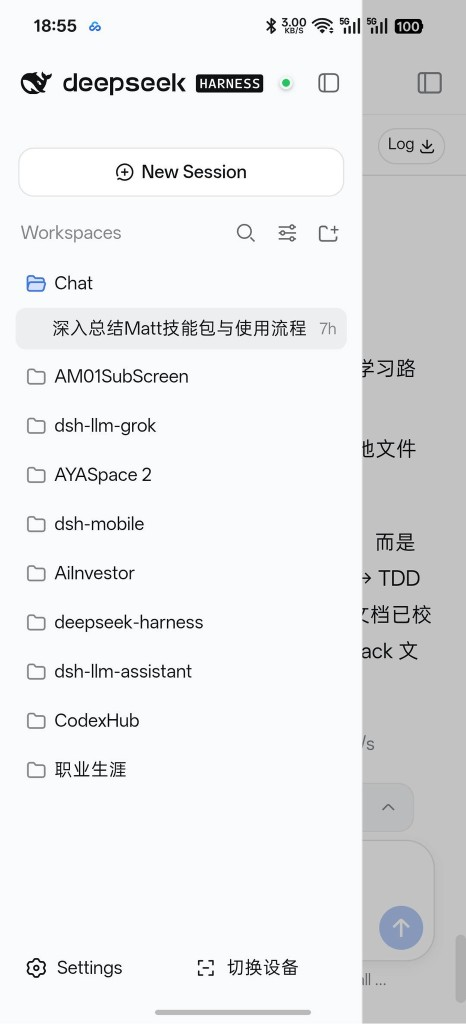
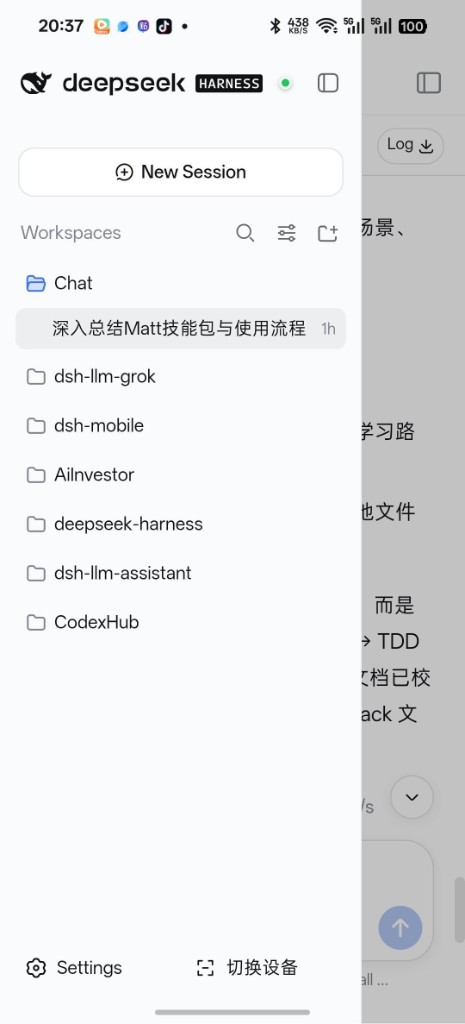
docs: lead with install commands and pair comparison shots
Replace the sidebar capture, put Remote / tunnel / optional Sidebar / APK first, and show conversation, settings, and Codex screens side by side.

diff --git a/README.md b/README.md
@@ -4,13 +4,53 @@ English | [中文](README.zh.md)
 
 Your own [DeepSeek Harness](https://github.com/deepseek-ai/deepseek-harness), on your phone. Scan a QR, keep an encrypted tunnel, keep the official UI — composed for a hand.
 
-![First launch: scan to pair](docs/screenshots/01-first-run.png)
-
 This is not a second DSH, not a browser that exposes `:3080`, and not a hosted product on someone else's domain. The Host stays on the machine you already run. The Android app connects to the one Active Host you select.
 
-DSH Mobile is **several published packages**, not one library. You install a Host plugin (pairing, which depends on the public tunnel library), optionally Codex Sidebar, and the Android APK.
+## Install
+
+Need [DeepSeek Harness](https://github.com/deepseek-ai/deepseek-harness) **0.1.0-rc.6** or later, already running on the machine the phone should reach.
+
+This is **several published packages**, not `npm i dsh-mobile`. On the Host, install **Remote** (the pairing plugin). It pulls the public tunnel library. Codex Sidebar is optional and recommended. Then install the APK.
+
+```sh
+dsh plugin --profile web add github:NOirBRight/dsh-mobile-pairing#v0.1.6
+dsh plugin --profile web add github:NOirBRight/dsh-codex-sidebar#v0.3.8
+dsh web
+```
+
+The second line is Codex Sidebar (Files / Review / Browser / Terminal). Skip it if you only want chat.
+
+Pairing **v0.1.6** depends on [`@dsh-mobile/e2e-tunnel` v0.1.3](https://github.com/NOirBRight/dsh-e2e-tunnel/releases/tag/v0.1.3). Do not add the tunnel library to the DSH plugin list.
+
+Then on the Host: **Settings → Plugins → DSH Mobile** (nav label **Remote**).
+
+1. **Generate automatically** (temporary Quick Tunnel) or **Enter an address** (a Relay you were given, or [one you deployed](relay/deploy/README.md)).
+2. Refresh the QR. Codes last about five minutes and are single-use.
+
+Android APK (signed **v1.1.0**):
+
+- Release: https://github.com/NOirBRight/dsh-mobile/releases/tag/v1.1.0
+- APK: https://github.com/NOirBRight/dsh-mobile/releases/download/v1.1.0/dsh-mobile-1.1.0.apk
+
+Install the APK, open the app, scan the Host QR.
+
+| Piece | Latest | Role |
+|---|---|---|
+| [dsh-mobile-pairing](https://github.com/NOirBRight/dsh-mobile-pairing) (`@dsh-mobile/pairing`) | [v0.1.6](https://github.com/NOirBRight/dsh-mobile-pairing/releases/tag/v0.1.6) | **Required.** Host plugin: QR, devices, loopback Gateway, Tunnel / Direct. This is **Remote**. |
+| [dsh-e2e-tunnel](https://github.com/NOirBRight/dsh-e2e-tunnel) (`@dsh-mobile/e2e-tunnel`) | [v0.1.3](https://github.com/NOirBRight/dsh-e2e-tunnel/releases/tag/v0.1.3) | Companion library. Pairing already depends on it. |
+| [dsh-codex-sidebar](https://github.com/NOirBRight/dsh-codex-sidebar) | [v0.3.8](https://github.com/NOirBRight/dsh-codex-sidebar/releases/tag/v0.3.8) | **Optional.** Files / Review / Browser / Terminal in the details seat. |
+| [dsh-mobile](https://github.com/NOirBRight/dsh-mobile) APK | [v1.1.0](https://github.com/NOirBRight/dsh-mobile/releases/tag/v1.1.0) | Phone app. Download the APK above. |
+| Relay | [`relay/deploy`](relay/deploy/README.md) | Optional self-hosted sealed-frame Relay, only if you skip Quick Tunnel. |
+
+Embedding the tunnel in another Host (not a phone install):
+
+```sh
+npm i github:NOirBRight/dsh-e2e-tunnel#v0.1.3
+```
 
 ## What it does
+
+![First launch: scan to pair](docs/screenshots/01-first-run.png)
 
 - **Scan to pair** — First launch is a camera screen. You can also open `dsh-mobile://pair#offer=…`. Scanning the same Host Identity updates that profile instead of duplicating it.
 - **Encrypted tunnel first** — Automatic opens a sealed Tunnel immediately. Same-network WebRTC Direct may win only in a short race. Quick Tunnel and Relay see ciphertext frames; the Host Gateway never publishes the DSH web port.
@@ -21,17 +61,17 @@ DSH Mobile is **several published packages**, not one library. You install a Hos
 
 ![Navigation drawer](docs/screenshots/02-sidebar.png)
 
-Narrow conversation chrome: session title, Chat / mode / log, composer, and compact stats.
+Narrow conversation chrome: session title, Chat / mode / log, composer, and compact stats. The composer opens the model list on the same screen.
 
-![Narrow conversation](docs/screenshots/03-session.png)
-
-![Model picker on the composer](docs/screenshots/04-model-picker.png)
+| Conversation | Model picker |
+| :---: | :---: |
+| ![Narrow conversation](docs/screenshots/03-session.png) | ![Model picker on the composer](docs/screenshots/04-model-picker.png) |
 
 Settings use the same official sections, laid out for a hand. The official desktop settings sheet still squeezes on a phone-width browser.
 
-![Mobile settings](docs/screenshots/05-settings.png)
-
-![Official settings at phone width](docs/screenshots/06-settings-official.png)
+| Phone settings | Official settings at phone width |
+| :---: | :---: |
+| ![Mobile settings](docs/screenshots/05-settings.png) | ![Official settings at phone width](docs/screenshots/06-settings-official.png) |
 
 The composer plus button on a phone only offers **Command** and **Insert image**. Images still go through the Host's official draft-image path.
 
@@ -48,17 +88,13 @@ flowchart LR
 
 ## Companion: Codex Sidebar
 
-Install **[Codex Sidebar](https://github.com/NOirBRight/dsh-codex-sidebar)** on the same Host. On the desktop it occupies the official details column. On the phone that seat becomes a right-edge drawer: Files, Review, Browser, and Terminal are the same plugin, not a second mobile app.
-
-```sh
-dsh plugin --profile web add github:NOirBRight/dsh-codex-sidebar#v0.3.8
-```
+Install **[Codex Sidebar](https://github.com/NOirBRight/dsh-codex-sidebar)** on the same Host (command in [Install](#install)). On the desktop it occupies the official details column. On the phone that seat becomes a right-edge drawer: Files, Review, Browser, and Terminal are the same plugin, not a second mobile app.
 
 ![Codex palette: Review, Terminal, Browser, Files](docs/screenshots/08-codex-palette.png)
 
-![Files preview](docs/screenshots/09-codex-files.png)
-
-![Terminal](docs/screenshots/10-codex-terminal.png)
+| Files | Terminal |
+| :---: | :---: |
+| ![Files preview](docs/screenshots/09-codex-files.png) | ![Terminal](docs/screenshots/10-codex-terminal.png) |
 
 ```mermaid
 flowchart TB
@@ -71,60 +107,14 @@ flowchart TB
   codex -.-> chat
 ```
 
-## Install
+## Operator notes
 
-Need [DeepSeek Harness](https://github.com/deepseek-ai/deepseek-harness) **0.1.0-rc.6** or later, already running on the machine you want the phone to reach.
+- Every route still does a NaCl hello/ack anchored on the QR Host public key. Endpoint operators are untrusted pipes.
+- Automatic is tunnel-first. Direct Only and Tunnel Only remain available. There is no TURN.
+- Removing a profile in the app is local. Revoke the device on the Host to invalidate the token.
+- Compatibility mode is the default: pairing, devices, Tunnel/Relay, and official UI keep working without patching Runtime. Optional session-cache enhancement enables only when the official Runtime revision matches a pinned allowlist; unknown versions fall back automatically.
 
-This is not `npm i dsh-mobile`. Pairing, the tunnel library, the APK, and the optional sidebar are **separate public releases**. Install each piece as below.
-
-| Piece | Latest | What it is | You install it? |
-|---|---|---|---|
-| [dsh-mobile](https://github.com/NOirBRight/dsh-mobile) | [v1.1.0](https://github.com/NOirBRight/dsh-mobile/releases/tag/v1.1.0) | Android APK (this repo) | Yes — download the APK |
-| [dsh-mobile-pairing](https://github.com/NOirBRight/dsh-mobile-pairing) (`@dsh-mobile/pairing`) | [v0.1.6](https://github.com/NOirBRight/dsh-mobile-pairing/releases/tag/v0.1.6) | Host plugin: QR, devices, loopback Gateway, Tunnel / Direct | Yes — `dsh plugin add` |
-| [dsh-e2e-tunnel](https://github.com/NOirBRight/dsh-e2e-tunnel) (`@dsh-mobile/e2e-tunnel`) | [v0.1.3](https://github.com/NOirBRight/dsh-e2e-tunnel/releases/tag/v0.1.3) | NaCl tunnel library (Direct + sealed Tunnel) | No — pairing already depends on `#v0.1.3` |
-| [dsh-codex-sidebar](https://github.com/NOirBRight/dsh-codex-sidebar) | [v0.3.8](https://github.com/NOirBRight/dsh-codex-sidebar/releases/tag/v0.3.8) | Files / Review / Browser / Terminal in the details seat | Recommended — `dsh plugin add` |
-| Relay in this repo | [`relay/deploy`](relay/deploy/README.md) | Optional sealed-frame Relay you host yourself | Only if you skip Quick Tunnel |
-
-If you are embedding the tunnel in another Host, pin the public library explicitly:
-
-```sh
-npm i github:NOirBRight/dsh-e2e-tunnel#v0.1.3
-```
-
-Phone users do not run that command.
-
-### 1. Host plugins
-
-On the computer that already runs DSH:
-
-```sh
-dsh plugin --profile web add github:NOirBRight/dsh-mobile-pairing#v0.1.6
-dsh plugin --profile web add github:NOirBRight/dsh-codex-sidebar#v0.3.8
-dsh web
-```
-
-Pairing **v0.1.6** pulls **e2e-tunnel v0.1.3**. You do not add the tunnel package to the DSH plugin list.
-
-### 2. Pair on the Host
-
-Open **Settings → Plugins → DSH Mobile** (the settings nav also labels it **Remote**).
-
-1. Choose **Generate automatically** (temporary Quick Tunnel) or **Enter an address** (a Relay you were given, or [one you deployed](relay/deploy/README.md)).
-2. Refresh the QR. Codes last about five minutes and are single-use.
-3. Scan with the Android app.
-
-### 3. Android APK
-
-Download the signed build from the GitHub release — do not start from a local Gradle debug APK unless you are developing:
-
-- Release: [v1.1.0](https://github.com/NOirBRight/dsh-mobile/releases/tag/v1.1.0)
-- File: [dsh-mobile-1.1.0.apk](https://github.com/NOirBRight/dsh-mobile/releases/download/v1.1.0/dsh-mobile-1.1.0.apk)
-
-Install it, open the app, scan the Host QR.
-
-### Build from source (operators)
-
-Java 21 JDK and an Android SDK. From this monorepo:
+Build from source (Java 21 JDK and an Android SDK):
 
 ```sh
 npm install
@@ -134,12 +124,5 @@ npm run android:debug --workspace @dsh-mobile/mobile-web
 ```
 
 Debug APK: `apps/mobile-web/android/app/build/outputs/apk/debug/app-debug.apk`. Signed release: `npm run android:release --workspace @dsh-mobile/mobile-web`.
-
-## Operator notes
-
-- Every route still does a NaCl hello/ack anchored on the QR Host public key. Endpoint operators are untrusted pipes.
-- Automatic is tunnel-first. Direct Only and Tunnel Only remain available. There is no TURN.
-- Removing a profile in the app is local. Revoke the device on the Host to invalidate the token.
-- Compatibility mode is the default: pairing, devices, Tunnel/Relay, and official UI keep working without patching Runtime. Optional session-cache enhancement enables only when the official Runtime revision matches a pinned allowlist; unknown versions fall back automatically.
 
 Pairing configuration: [plugins/pairing/README.md](plugins/pairing/README.md) and the published [dsh-mobile-pairing](https://github.com/NOirBRight/dsh-mobile-pairing) repo. Self-hosted Relay: [relay/deploy/README.md](relay/deploy/README.md). Layout contract: [docs/adr/0004-responsive-layout-and-design-ownership.md](docs/adr/0004-responsive-layout-and-design-ownership.md). Maintainer architecture: [docs/architecture.md](docs/architecture.md).

diff --git a/README.zh.md b/README.zh.md
@@ -4,13 +4,53 @@
 
 把你自己的 [DeepSeek Harness](https://github.com/deepseek-ai/deepseek-harness) 装进口袋。扫码配对，端到端加密隧道，官方功能，手机布局。
 
-![首次启动：扫码配对](docs/screenshots/01-first-run.png)
-
 这不是第二套 DSH，不是把 `:3080` 暴露到公网的浏览器壳，也不是架在别人域名上的托管产品。Host 仍是你已经在跑的那台机器。Android 应用只连接你当前选中的那一台 Active Host。
 
-DSH Mobile **不是一个库**，而是多份已发布的包：Host 上的配对插件（依赖公开的隧道库）、可选的 Codex Sidebar，以及 Android APK。每一份都要按下面的方式装。
+## 安装
+
+需要本机已经在跑 [DeepSeek Harness](https://github.com/deepseek-ai/deepseek-harness) **0.1.0-rc.6** 或更高，手机要连的就是这台。
+
+这是 **多份已发布的包**，不是 `npm i dsh-mobile`。Host 上先装 **远程**（配对插件），它会带上公开的隧道库。Codex Sidebar 可选，建议装。然后再装 APK。
+
+```sh
+dsh plugin --profile web add github:NOirBRight/dsh-mobile-pairing#v0.1.6
+dsh plugin --profile web add github:NOirBRight/dsh-codex-sidebar#v0.3.8
+dsh web
+```
+
+第二行是 Codex Sidebar（Files / Review / Browser / Terminal）。只要聊天可以不装。
+
+配对插件 **v0.1.6** 依赖 [`@dsh-mobile/e2e-tunnel` v0.1.3](https://github.com/NOirBRight/dsh-e2e-tunnel/releases/tag/v0.1.3)。不要把隧道库再加进 DSH 插件列表。
+
+然后在 Host 上打开 **设置 → 插件 → 插件配置 → DSH Mobile**（导航里叫 **远程**）。
+
+1. **自动生成**（临时 Quick Tunnel）或 **填写地址**（你拿到的，或[自己部署](relay/deploy/README.md) 的 Relay）。
+2. 刷新二维码。约 5 分钟有效，且一次性。
+
+Android APK（已签名 **v1.1.0**）：
+
+- 发布页：https://github.com/NOirBRight/dsh-mobile/releases/tag/v1.1.0
+- APK：https://github.com/NOirBRight/dsh-mobile/releases/download/v1.1.0/dsh-mobile-1.1.0.apk
+
+装上应用，打开后扫描 Host 二维码。
+
+| 部件 | 当前版本 | 角色 |
+|---|---|---|
+| [dsh-mobile-pairing](https://github.com/NOirBRight/dsh-mobile-pairing)（`@dsh-mobile/pairing`） | [v0.1.6](https://github.com/NOirBRight/dsh-mobile-pairing/releases/tag/v0.1.6) | **必装。** Host 插件：二维码、设备、回环 Gateway、Tunnel / Direct。这就是 **远程**。 |
+| [dsh-e2e-tunnel](https://github.com/NOirBRight/dsh-e2e-tunnel)（`@dsh-mobile/e2e-tunnel`） | [v0.1.3](https://github.com/NOirBRight/dsh-e2e-tunnel/releases/tag/v0.1.3) | 配套库。pairing 已经依赖它。 |
+| [dsh-codex-sidebar](https://github.com/NOirBRight/dsh-codex-sidebar) | [v0.3.8](https://github.com/NOirBRight/dsh-codex-sidebar/releases/tag/v0.3.8) | **可选。** details 席位上的 Files / Review / Browser / Terminal。 |
+| [dsh-mobile](https://github.com/NOirBRight/dsh-mobile) APK | [v1.1.0](https://github.com/NOirBRight/dsh-mobile/releases/tag/v1.1.0) | 手机应用。用上面的 APK 链接。 |
+| Relay | [`relay/deploy`](relay/deploy/README.md) | 可选自托管密文转发。只用 Quick Tunnel 就跳过。 |
+
+把隧道嵌进别的 Host 时才单独钉库（装手机不用跑）：
+
+```sh
+npm i github:NOirBRight/dsh-e2e-tunnel#v0.1.3
+```
 
 ## 能做什么
+
+![首次启动：扫码配对](docs/screenshots/01-first-run.png)
 
 - **扫码配对** — 首次启动只有相机页。也可以打开 `dsh-mobile://pair#offer=…`。同一 Host Identity 会更新已有档案，不会复制设备。
 - **加密隧道优先** — Automatic 立刻走密封 Tunnel。同网 WebRTC Direct 只在短窗口里可以抢赢。Quick Tunnel 和 Relay 只看见密文帧；Host Gateway 不会公布 DSH 网页端口。
@@ -21,17 +61,17 @@ DSH Mobile **不是一个库**，而是多份已发布的包：Host 上的配对
 
 ![导航抽屉](docs/screenshots/02-sidebar.png)
 
-窄屏会话：顶栏标题、Chat / 模式 / 日志、composer、压缩统计行。
+窄屏会话：顶栏标题、Chat / 模式 / 日志、composer、压缩统计行。模型列表从同一块 composer 打开。
 
-![窄屏会话](docs/screenshots/03-session.png)
-
-![composer 上的模型选择器](docs/screenshots/04-model-picker.png)
+| 会话 | 模型选择器 |
+| :---: | :---: |
+| ![窄屏会话](docs/screenshots/03-session.png) | ![composer 上的模型选择器](docs/screenshots/04-model-picker.png) |
 
 设置用官方分区，按手机构图。官方桌面设置页在手机宽度的浏览器里仍会被挤扁。
 
-![窄屏设置](docs/screenshots/05-settings.png)
-
-![官方设置在手机宽度下](docs/screenshots/06-settings-official.png)
+| 窄屏设置 | 官方设置在手机宽度下 |
+| :---: | :---: |
+| ![窄屏设置](docs/screenshots/05-settings.png) | ![官方设置在手机宽度下](docs/screenshots/06-settings-official.png) |
 
 手机上加号只提供 **命令** 和 **插入图片**。图片仍走 Host 官方的 draft-image 通道。
 
@@ -48,17 +88,13 @@ flowchart LR
 
 ## 伴生：Codex Sidebar
 
-请在同一台 Host 上安装 **[Codex Sidebar](https://github.com/NOirBRight/dsh-codex-sidebar)**。桌面上它占用官方 details 列；手机上这个席位变成右侧抽屉。Files、Review、Browser、Terminal 仍是同一套插件，不是手机另做一版。
-
-```sh
-dsh plugin --profile web add github:NOirBRight/dsh-codex-sidebar#v0.3.8
-```
+请在同一台 Host 上安装 **[Codex Sidebar](https://github.com/NOirBRight/dsh-codex-sidebar)**（命令见[安装](#安装)）。桌面上它占用官方 details 列；手机上这个席位变成右侧抽屉。Files、Review、Browser、Terminal 仍是同一套插件，不是手机另做一版。
 
 ![Codex 工具面板：Review、Terminal、Browser、Files](docs/screenshots/08-codex-palette.png)
 
-![Files 预览](docs/screenshots/09-codex-files.png)
-
-![Terminal](docs/screenshots/10-codex-terminal.png)
+| Files | Terminal |
+| :---: | :---: |
+| ![Files 预览](docs/screenshots/09-codex-files.png) | ![Terminal](docs/screenshots/10-codex-terminal.png) |
 
 ```mermaid
 flowchart TB
@@ -71,60 +107,14 @@ flowchart TB
   codex -.-> chat
 ```
 
-## 安装
+## 操作者细节
 
-需要本机已经在跑 [DeepSeek Harness](https://github.com/deepseek-ai/deepseek-harness) **0.1.0-rc.6** 或更高。
+- 任何路径仍会做以 QR Host 公钥为锚的 NaCl hello/ack。端点运营方只是不可信管道。
+- Automatic 隧道优先。Direct Only 与 Tunnel Only 仍可选。无 TURN。
+- 应用里删除档案是本地操作。要作废凭证，请在 Host 上撤销设备。
+- 默认兼容模式：配对、设备、Tunnel/Relay 和官方 UI 不修改 Runtime 也能工作。可选会话缓存增强只在官方 Runtime revision 命中白名单时启用；未知版本自动回退。
 
-不要当成 `npm i dsh-mobile`。配对插件、隧道库、APK、可选 Sidebar 是 **各自独立发布** 的，按下表分别安装。
-
-| 部件 | 当前版本 | 是什么 | 要不要你亲手装 |
-|---|---|---|---|
-| [dsh-mobile](https://github.com/NOirBRight/dsh-mobile) | [v1.1.0](https://github.com/NOirBRight/dsh-mobile/releases/tag/v1.1.0) | Android APK（本仓库） | 要 — 下 APK |
-| [dsh-mobile-pairing](https://github.com/NOirBRight/dsh-mobile-pairing)（`@dsh-mobile/pairing`） | [v0.1.6](https://github.com/NOirBRight/dsh-mobile-pairing/releases/tag/v0.1.6) | Host 插件：二维码、设备、回环 Gateway、Tunnel / Direct | 要 — `dsh plugin add` |
-| [dsh-e2e-tunnel](https://github.com/NOirBRight/dsh-e2e-tunnel)（`@dsh-mobile/e2e-tunnel`） | [v0.1.3](https://github.com/NOirBRight/dsh-e2e-tunnel/releases/tag/v0.1.3) | NaCl 隧道库（Direct + 密封 Tunnel） | 不要 — pairing 已经依赖 `#v0.1.3` |
-| [dsh-codex-sidebar](https://github.com/NOirBRight/dsh-codex-sidebar) | [v0.3.8](https://github.com/NOirBRight/dsh-codex-sidebar/releases/tag/v0.3.8) | details 席位上的 Files / Review / Browser / Terminal | 建议装 — `dsh plugin add` |
-| 本仓库 Relay | [`relay/deploy`](relay/deploy/README.md) | 可选、自己托管的密文转发 Relay | 只有不用 Quick Tunnel 时才需要 |
-
-如果你要把隧道嵌进别的 Host，再单独钉公开库：
-
-```sh
-npm i github:NOirBRight/dsh-e2e-tunnel#v0.1.3
-```
-
-装手机的人不用跑这条。
-
-### 1. Host 插件
-
-在已经跑 DSH 的那台电脑上：
-
-```sh
-dsh plugin --profile web add github:NOirBRight/dsh-mobile-pairing#v0.1.6
-dsh plugin --profile web add github:NOirBRight/dsh-codex-sidebar#v0.3.8
-dsh web
-```
-
-配对插件 **v0.1.6** 会带上 **e2e-tunnel v0.1.3**。不要把隧道库再加进 DSH 的插件列表。
-
-### 2. 在 Host 上配对
-
-打开 **设置 → 插件 → 插件配置 → DSH Mobile**（导航里也叫 **远程**）。
-
-1. 选 **自动生成**（临时 Quick Tunnel）或 **填写地址**（你拿到的，或[自己部署](relay/deploy/README.md) 的 Relay）。
-2. 刷新二维码。约 5 分钟有效，且一次性。
-3. 用 Android 应用扫描。
-
-### 3. Android APK
-
-从 GitHub Release 下载已签名安装包。开发以外不要从本地 Gradle debug APK 起步：
-
-- 发布页：[v1.1.0](https://github.com/NOirBRight/dsh-mobile/releases/tag/v1.1.0)
-- 文件：[dsh-mobile-1.1.0.apk](https://github.com/NOirBRight/dsh-mobile/releases/download/v1.1.0/dsh-mobile-1.1.0.apk)
-
-装上应用，打开后扫描 Host 二维码。
-
-### 从源码构建（操作者）
-
-需要 Java 21 JDK 和 Android SDK。在本 monorepo 里：
+从源码构建（Java 21 JDK 和 Android SDK）：
 
 ```sh
 npm install
@@ -134,12 +124,5 @@ npm run android:debug --workspace @dsh-mobile/mobile-web
 ```
 
 调试 APK：`apps/mobile-web/android/app/build/outputs/apk/debug/app-debug.apk`。签名发布包：`npm run android:release --workspace @dsh-mobile/mobile-web`。
-
-## 操作者细节
-
-- 任何路径仍会做以 QR Host 公钥为锚的 NaCl hello/ack。端点运营方只是不可信管道。
-- Automatic 隧道优先。Direct Only 与 Tunnel Only 仍可选。无 TURN。
-- 应用里删除档案是本地操作。要作废凭证，请在 Host 上撤销设备。
-- 默认兼容模式：配对、设备、Tunnel/Relay 和官方 UI 不修改 Runtime 也能工作。可选会话缓存增强只在官方 Runtime revision 命中白名单时启用；未知版本自动回退。
 
 配对配置见 [plugins/pairing/README.md](plugins/pairing/README.md) 和已发布的 [dsh-mobile-pairing](https://github.com/NOirBRight/dsh-mobile-pairing)。自托管 Relay 见 [relay/deploy/README.md](relay/deploy/README.md)。布局契约见 [docs/adr/0004-responsive-layout-and-design-ownership.md](docs/adr/0004-responsive-layout-and-design-ownership.md)。维护者架构见 [docs/architecture.md](docs/architecture.md)。
